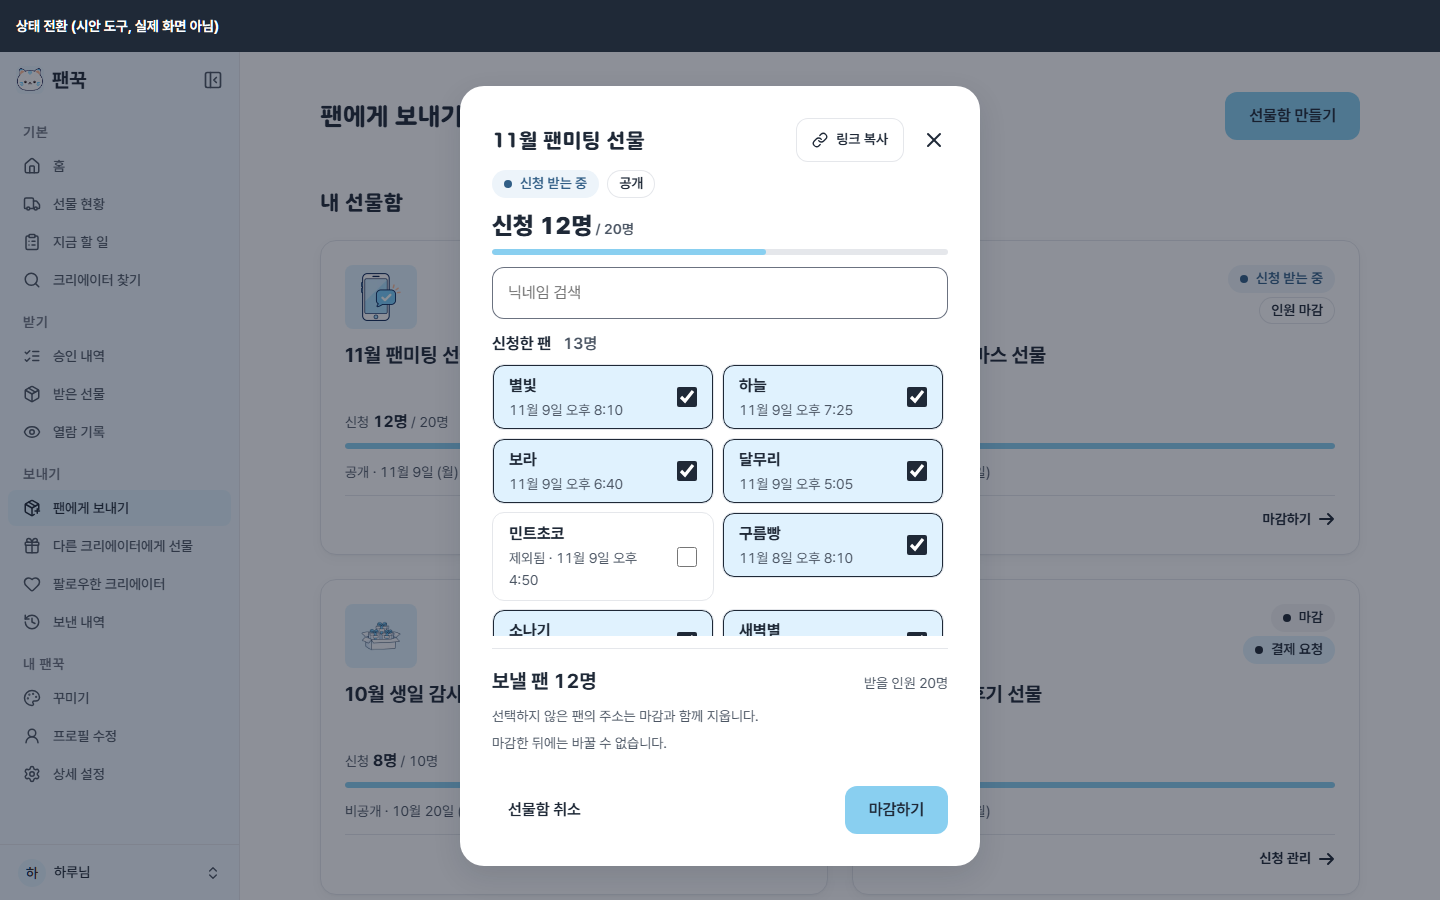
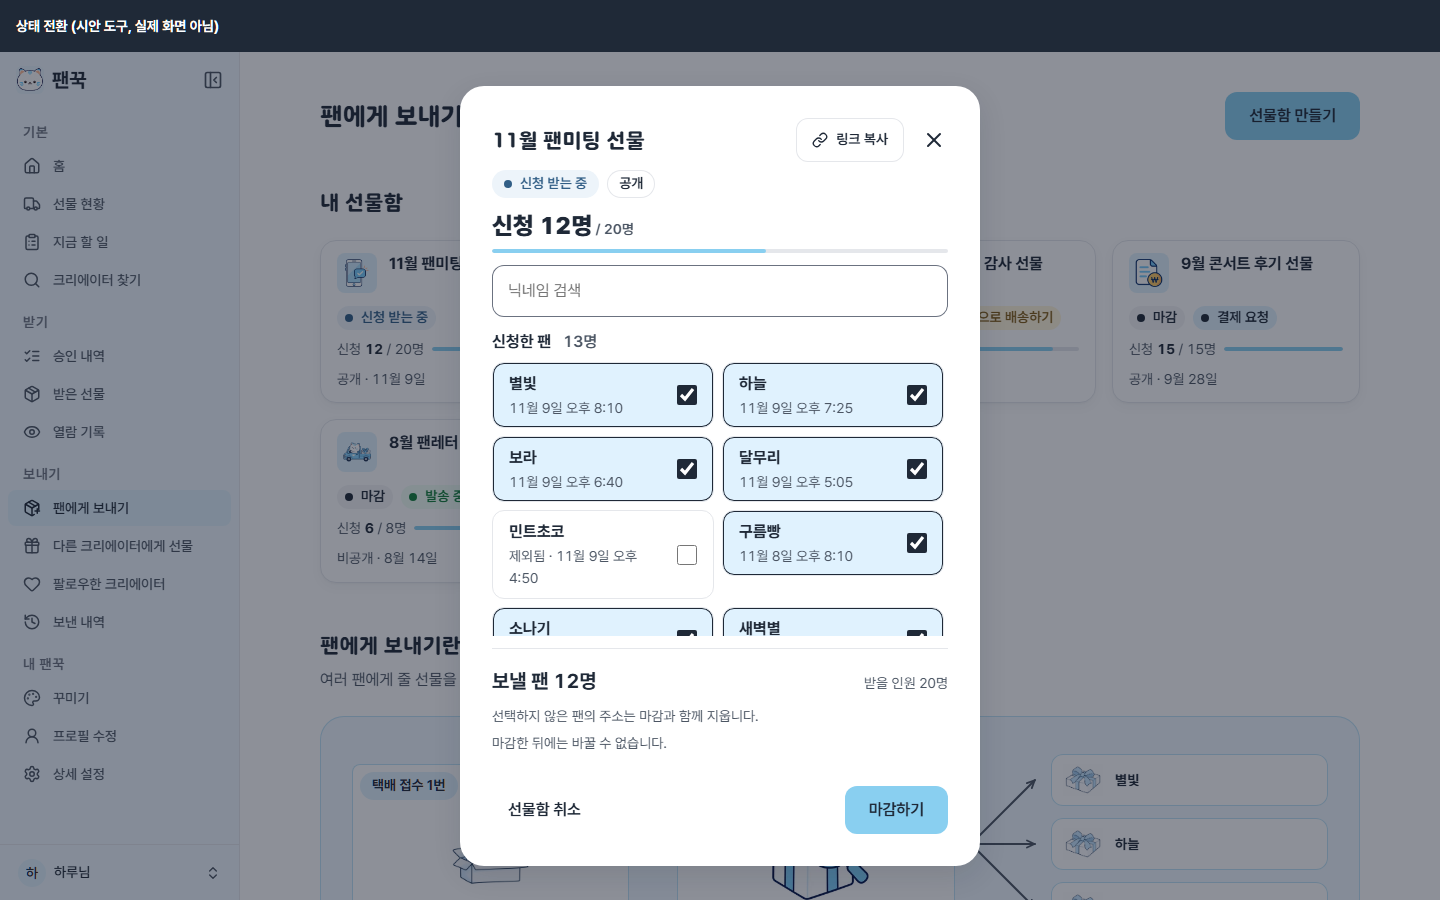
docs(fankkuk): 선물함 시안 — 목록 카드를 작게(4열·높이 163, 행동 줄 없앰, 카드 전체 누름)

diff --git a/projects/fankkuk/docs/design/mockups/revgift-box-create-20261109/index.html b/projects/fankkuk/docs/design/mockups/revgift-box-create-20261109/index.html
@@ -425,6 +425,22 @@ fieldset[disabled] .opt { cursor: not-allowed; }
   .mg-st { padding: var(--space-3) var(--space-4) 0; margin: 0; }
   .dlg.tall { height: 100%; }
 }
+/* ---- 선물함 카드 작게(2026-11-10): 3~4열, 카드 전체가 누르는 칸(행동 줄 없음) ---- */
+.boxes { grid-template-columns: repeat(auto-fill, minmax(240px, 1fr)); gap: var(--space-4); }
+.bcard { grid-template-rows: 45px auto auto 1fr; gap: var(--space-2); padding: var(--space-3) var(--space-4); }
+.b-top { display: flex; flex-wrap: nowrap; align-items: flex-start; justify-content: flex-start; gap: var(--space-3); }
+.b-pic { flex: none; width: 40px; height: 40px; }
+.b-pic img { max-width: 28px; max-height: 28px; }
+.b-n { flex: 1; min-width: 0; min-height: 45px; font-size: var(--fs-body); line-height: 1.4; }
+.b-a { display: -webkit-box; -webkit-box-orient: vertical; -webkit-line-clamp: 2; overflow: hidden; min-height: 45px; }
+.b-tg { display: flex; flex-wrap: wrap; align-items: center; gap: var(--space-1) var(--space-2); }
+.b-tags { display: contents; }
+.bcard .tag { padding: 2px var(--space-2); }
+.b-cnt { display: flex; align-items: center; gap: var(--space-2); }
+.b-num { flex: none; font-size: var(--fs-small); }
+.b-num b { font-size: var(--fs-small); }
+.b-bar { flex: 1; min-width: 24px; height: 4px; }
+.b-m { align-self: end; }
 
 </style>
 </head>
@@ -488,36 +504,30 @@ fieldset[disabled] .opt { cursor: not-allowed; }
 </header><section class="sec" aria-labelledby="mine-h">
   <h2 class="sec-h" id="mine-h">내 선물함</h2>
   <div class="boxes-box"><ul class="boxes" role="list">
-    <li class="bcard"><div class="b-top"><div class="b-pic"><img src="img/promise-message.webp" alt="" height="48"></div><span class="tag tag--dot tag--info">신청 받는 중</span></div>
-      <h3 class="b-n"><a class="b-a" href="#" data-go="mgopen">11월 팬미팅 선물</a></h3>
-      <div class="b-cnt"><p class="b-num">신청 <b>12명</b> / 20명</p><div class="b-bar" role="progressbar" aria-label="신청 12명 / 20명" aria-valuemin="0" aria-valuemax="20" aria-valuenow="12"><i style="width:60%"></i></div></div>
-      <p class="b-m">공개 · 11월 9일 (월)</p>
-      <p class="b-go" aria-hidden="true">신청 관리<svg viewBox="0 0 16 16"><path d="M1 8h13M9 3l5 5-5 5"/></svg></p></li>
-    <li class="bcard"><div class="b-top"><div class="b-pic"><img src="img/promise-message.webp" alt="" height="48"></div><span class="b-tags"><span class="tag tag--dot tag--info">신청 받는 중</span><span class="tag tag--line">인원 마감</span></span></div>
-      <h3 class="b-n"><a class="b-a" href="#" data-go="mgfull">12월 크리스마스 선물</a></h3>
-      <div class="b-cnt"><p class="b-num">신청 <b>20명</b> / 20명</p><div class="b-bar" role="progressbar" aria-label="신청 20명 / 20명" aria-valuemin="0" aria-valuemax="20" aria-valuenow="20"><i style="width:100%"></i></div></div>
-      <p class="b-m">공개 · 11월 8일 (일)</p>
-      <p class="b-go" aria-hidden="true">마감하기<svg viewBox="0 0 16 16"><path d="M1 8h13M9 3l5 5-5 5"/></svg></p></li>
-    <li class="bcard"><div class="b-top"><div class="b-pic"><img src="img/revgift-pack.png" alt="" height="48"></div><span class="b-tags"><span class="tag tag--dot ">마감</span><span class="tag tag--dot tag--warn">팬꾹으로 배송하기</span></span></div>
-      <h3 class="b-n"><a class="b-a" href="#">10월 생일 감사 선물</a></h3>
-      <div class="b-cnt"><p class="b-num">신청 <b>8명</b> / 10명</p><div class="b-bar" role="progressbar" aria-label="신청 8명 / 10명" aria-valuemin="0" aria-valuemax="10" aria-valuenow="8"><i style="width:80%"></i></div></div>
-      <p class="b-m">비공개 · 10월 20일 (화)</p>
-      <p class="b-go" aria-hidden="true">신청 관리<svg viewBox="0 0 16 16"><path d="M1 8h13M9 3l5 5-5 5"/></svg></p></li>
-    <li class="bcard"><div class="b-top"><div class="b-pic"><img src="img/icon-fee.webp" alt="" height="48"></div><span class="b-tags"><span class="tag tag--dot ">마감</span><span class="tag tag--dot tag--brand">결제 요청</span></span></div>
-      <h3 class="b-n"><a class="b-a" href="#">9월 콘서트 후기 선물</a></h3>
-      <div class="b-cnt"><p class="b-num">신청 <b>15명</b> / 15명</p><div class="b-bar" role="progressbar" aria-label="신청 15명 / 15명" aria-valuemin="0" aria-valuemax="15" aria-valuenow="15"><i style="width:100%"></i></div></div>
-      <p class="b-m">공개 · 9월 28일 (월)</p>
-      <p class="b-go" aria-hidden="true">신청 관리<svg viewBox="0 0 16 16"><path d="M1 8h13M9 3l5 5-5 5"/></svg></p></li>
-    <li class="bcard"><div class="b-top"><div class="b-pic"><img src="img/icon-truck.webp" alt="" height="48"></div><span class="b-tags"><span class="tag tag--dot ">마감</span><span class="tag tag--dot tag--success">발송 중</span></span></div>
-      <h3 class="b-n"><a class="b-a" href="#">8월 팬레터 답장 선물</a></h3>
-      <div class="b-cnt"><p class="b-num">신청 <b>6명</b> / 8명</p><div class="b-bar" role="progressbar" aria-label="신청 6명 / 8명" aria-valuemin="0" aria-valuemax="8" aria-valuenow="6"><i style="width:75%"></i></div></div>
-      <p class="b-m">비공개 · 8월 14일 (금)</p>
-      <p class="b-go" aria-hidden="true">신청 관리<svg viewBox="0 0 16 16"><path d="M1 8h13M9 3l5 5-5 5"/></svg></p></li>
-    <li class="bcard"><div class="b-top"><div class="b-pic is-off"><img src="img/icon-gift.webp" alt="" height="48"></div><span class="tag tag--dot ">마감</span></div>
-      <h3 class="b-n"><a class="b-a" href="#">7월 안부 선물</a></h3>
-      <div class="b-cnt"><p class="b-num">신청 <b>0명</b> / 20명</p><div class="b-bar" role="progressbar" aria-label="신청 0명 / 20명" aria-valuemin="0" aria-valuemax="20" aria-valuenow="0"><i style="width:0%"></i></div></div>
-      <p class="b-m">공개 · 7월 3일 (금)</p>
-      <p class="b-go" aria-hidden="true">신청 관리<svg viewBox="0 0 16 16"><path d="M1 8h13M9 3l5 5-5 5"/></svg></p></li>
+    <li class="bcard"><div class="b-top"><div class="b-pic"><img src="img/promise-message.webp" alt="" height="28"></div><h3 class="b-n"><a class="b-a" href="#" data-go="mgopen">11월 팬미팅 선물</a></h3></div>
+      <div class="b-tg"><span class="tag tag--dot tag--info">신청 받는 중</span></div>
+      <div class="b-cnt"><p class="b-num">신청 <b>12</b> / 20명</p><div class="b-bar" role="progressbar" aria-label="신청 12명 / 20명" aria-valuemin="0" aria-valuemax="20" aria-valuenow="12"><i style="width:60%"></i></div></div>
+      <p class="b-m">공개 · 11월 9일</p></li>
+    <li class="bcard"><div class="b-top"><div class="b-pic"><img src="img/promise-message.webp" alt="" height="28"></div><h3 class="b-n"><a class="b-a" href="#" data-go="mgfull">12월 크리스마스 선물</a></h3></div>
+      <div class="b-tg"><span class="b-tags"><span class="tag tag--dot tag--info">신청 받는 중</span><span class="tag tag--line">인원 마감</span></span></div>
+      <div class="b-cnt"><p class="b-num">신청 <b>20</b> / 20명</p><div class="b-bar" role="progressbar" aria-label="신청 20명 / 20명" aria-valuemin="0" aria-valuemax="20" aria-valuenow="20"><i style="width:100%"></i></div></div>
+      <p class="b-m">공개 · 11월 8일</p></li>
+    <li class="bcard"><div class="b-top"><div class="b-pic"><img src="img/revgift-pack.png" alt="" height="28"></div><h3 class="b-n"><a class="b-a" href="#">10월 생일 감사 선물</a></h3></div>
+      <div class="b-tg"><span class="b-tags"><span class="tag tag--dot ">마감</span><span class="tag tag--dot tag--warn">팬꾹으로 배송하기</span></span></div>
+      <div class="b-cnt"><p class="b-num">신청 <b>8</b> / 10명</p><div class="b-bar" role="progressbar" aria-label="신청 8명 / 10명" aria-valuemin="0" aria-valuemax="10" aria-valuenow="8"><i style="width:80%"></i></div></div>
+      <p class="b-m">비공개 · 10월 20일</p></li>
+    <li class="bcard"><div class="b-top"><div class="b-pic"><img src="img/icon-fee.webp" alt="" height="28"></div><h3 class="b-n"><a class="b-a" href="#">9월 콘서트 후기 선물</a></h3></div>
+      <div class="b-tg"><span class="b-tags"><span class="tag tag--dot ">마감</span><span class="tag tag--dot tag--brand">결제 요청</span></span></div>
+      <div class="b-cnt"><p class="b-num">신청 <b>15</b> / 15명</p><div class="b-bar" role="progressbar" aria-label="신청 15명 / 15명" aria-valuemin="0" aria-valuemax="15" aria-valuenow="15"><i style="width:100%"></i></div></div>
+      <p class="b-m">공개 · 9월 28일</p></li>
+    <li class="bcard"><div class="b-top"><div class="b-pic"><img src="img/icon-truck.webp" alt="" height="28"></div><h3 class="b-n"><a class="b-a" href="#">8월 팬레터 답장 선물</a></h3></div>
+      <div class="b-tg"><span class="b-tags"><span class="tag tag--dot ">마감</span><span class="tag tag--dot tag--success">발송 중</span></span></div>
+      <div class="b-cnt"><p class="b-num">신청 <b>6</b> / 8명</p><div class="b-bar" role="progressbar" aria-label="신청 6명 / 8명" aria-valuemin="0" aria-valuemax="8" aria-valuenow="6"><i style="width:75%"></i></div></div>
+      <p class="b-m">비공개 · 8월 14일</p></li>
+    <li class="bcard"><div class="b-top"><div class="b-pic is-off"><img src="img/icon-gift.webp" alt="" height="28"></div><h3 class="b-n"><a class="b-a" href="#">7월 안부 선물</a></h3></div>
+      <div class="b-tg"><span class="tag tag--dot ">마감</span></div>
+      <div class="b-cnt"><p class="b-num">신청 <b>0</b> / 20명</p><div class="b-bar" role="progressbar" aria-label="신청 0명 / 20명" aria-valuemin="0" aria-valuemax="20" aria-valuenow="0"><i style="width:0%"></i></div></div>
+      <p class="b-m">공개 · 7월 3일</p></li>
   </ul></div>
 </section><section class="sec" aria-labelledby="what-h"><div><h2 class="sec-h" id="what-h">팬에게 보내기란?</h2><p class="def">여러 팬에게 줄 선물을 큰 상자 하나에 담아 팬꾹으로 보내면, 팬꾹이 열어 팬마다 나눠 보냅니다.</p></div><div class="story-box"><div class="story">
   <div class="s-pic s-a" data-s="a"><span class="chip chip-a">택배 접수 1번</span><img src="img/revgift-pack.png" alt="" width="112" height="112"></div>

diff --git a/projects/fankkuk/docs/design/mockups/revgift-box-create-20261109/notes.md b/projects/fankkuk/docs/design/mockups/revgift-box-create-20261109/notes.md
@@ -131,3 +131,7 @@
 - 머리: 선물함 이름 · 작은 「링크 복사」(0명이면 채움으로 강조) · 닫기, 아래 줄에 뱃지(신청 받는 중 · 인원 마감 · 공개). 신청 현황(신청 N명 / 20명 · 대기 K명 + 막대)과 검색은 목록 위에 고정(명세 「본문 스크롤」과 다르게 현황·검색을 고정 — 스크롤해도 숫자가 보이게, (가정)), 칩 목록만 스크롤. 고정 아래: 결과 줄 · 사실 두 줄 · 「선물함 취소」(글자, 왼쪽) · 「마감하기」(채움, 오른쪽). 확정은 마감하기 한 번.
 - 체크의 뜻: 신청 받는 중 칩의 체크 해제 = 제외(그 자리에서 저장, 칩에 「제외됨」), 대기 칩의 체크는 마감 때만 쓰임(「대기 N번」 표시). 칩 글자로 구분.
 - 모달 높이 규칙(화면 − 위아래 24, 머리·결과·버튼 고정)과 휴대폰 전체 시트는 앞과 같다.
+
+## 14. 선물함 카드를 작게(2026-11-10 사용자 「크기를 왜 이렇게 키웠지?」)
+- 원인: 두 칸 폭(508) · 그림 72 + 이름 + 신청 수·막대 + 공개·날짜 + 구분선 행동 줄의 다섯 줄 세로 쌓기(높이 300~370) · 카드 전체가 누르는 칸인데 「신청 관리 →」 줄이 따로(13-1).
+- 고친 것: 폭 240 이상 칸 자동 배치(1440에서 4열, 카드 248 × 163) · 윗줄 작은 그림 40 + 이름(두 줄까지, 넘치면 말줄임) · 뱃지 줄 · 「신청 N / M명」 + 얇은 막대 · 맨 아래 「공개 · 11월 9일」 · 행동 줄 삭제(카드 전체 누름). 「마감하기 →」도 없앰 — 「인원 마감」 뱃지로 알리고 누르면 신청 관리 모달. 같은 줄 카드끼리 높이 같음, 이름 40자에서도 깨지지 않음(전체 이름은 모달 머리에서 봄).
